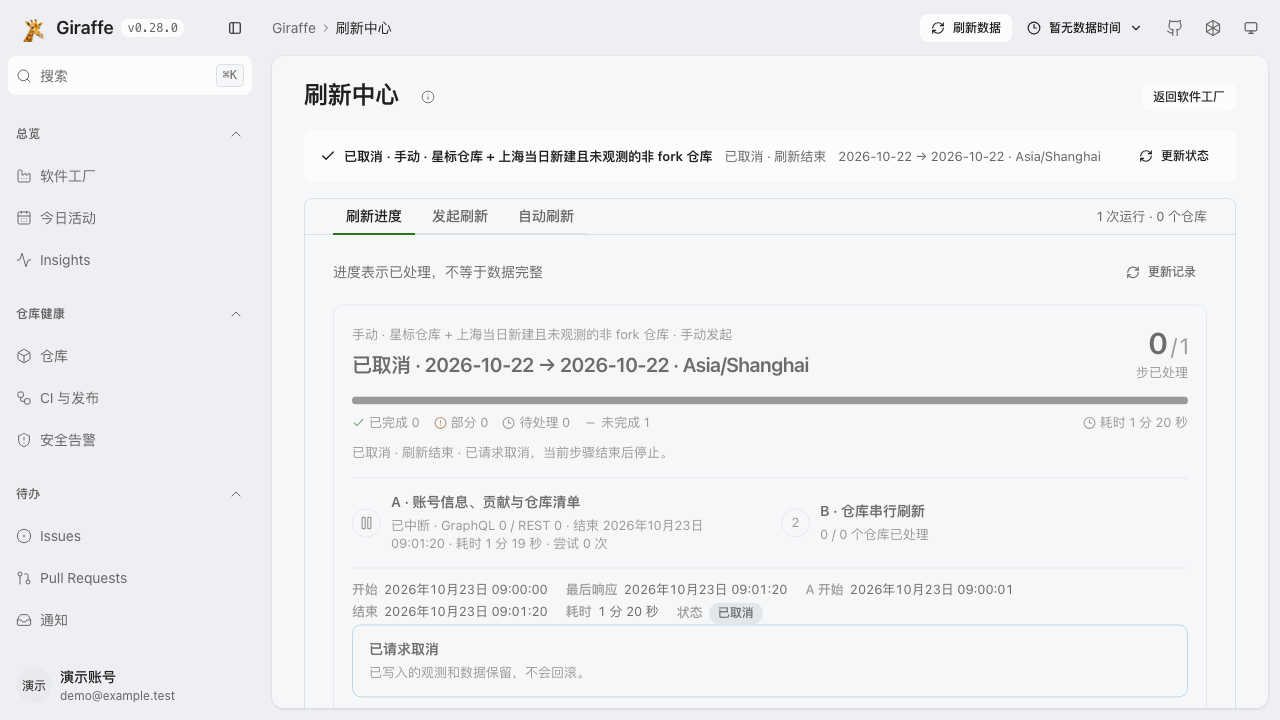
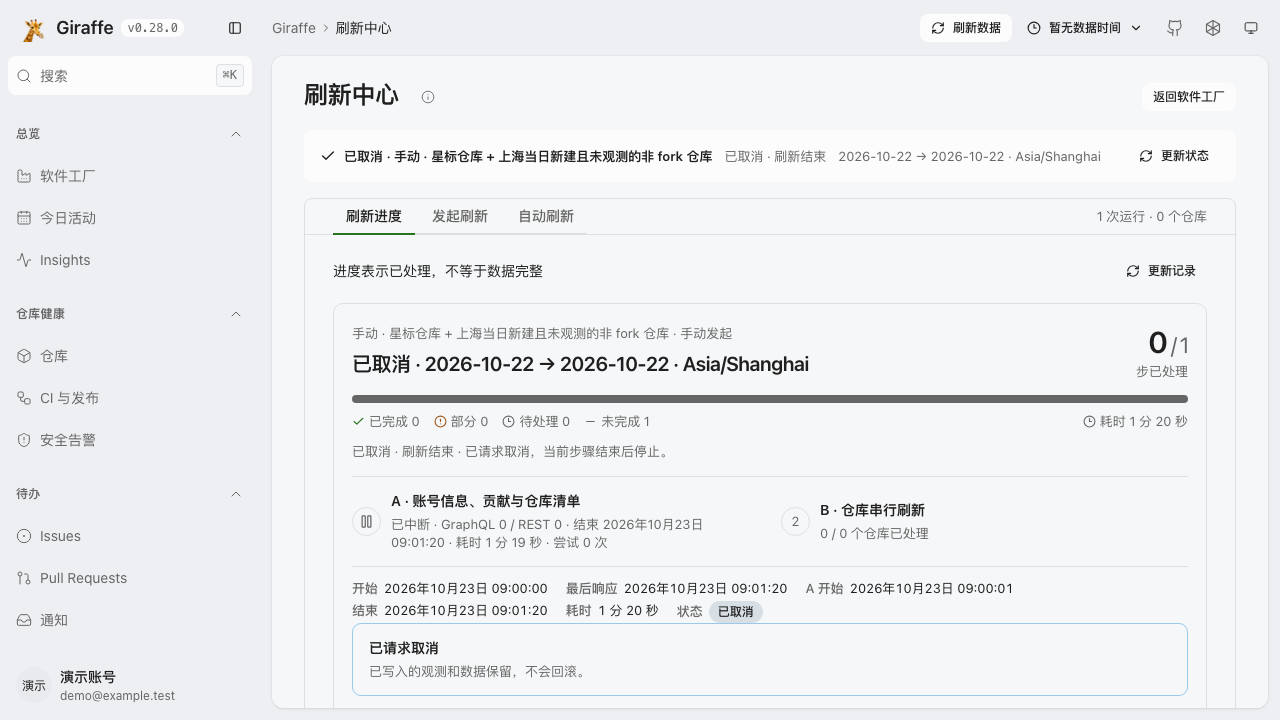
fix: clarify refresh details at narrow widths

diff --git a/tests/e2e/refresh-center.spec.ts b/tests/e2e/refresh-center.spec.ts
@@ -2,6 +2,9 @@ import { expect, test } from "@playwright/test";
 import { refreshReviewRun, uiRefreshReviewFixtures } from "./ui-refresh-review-fixtures";
 
 test("cancelled account closure does not imply completed collection", async ({ page }, info) => {
+	await page.setViewportSize({ width: 1280, height: 720 });
+	await page.emulateMedia({ colorScheme: "light", reducedMotion: "reduce" });
+	await page.clock.setFixedTime(new Date("2026-10-23T01:01:20.000Z"));
 	const fixtures = uiRefreshReviewFixtures();
 	const current = refreshReviewRun();
 	const cancelled = {
@@ -48,10 +51,21 @@ test("cancelled account closure does not imply completed collection", async ({ p
 		"value",
 		"0",
 	);
-	await page.screenshot({ path: info.outputPath("cancelled-account-closure.png"), fullPage: true });
+	await page.screenshot({
+		path: info.outputPath("cancelled-account-closure.png"),
+		fullPage: true,
+		animations: "disabled",
+	});
+	await page.locator("details.refresh-diagnostics > summary").click();
+	await expect(page.locator("details.refresh-diagnostics")).toContainText(
+		"结束时间表示步骤结束，不代表成功完成采集",
+	);
 });
 
 test("settled refresh dimensions do not claim complete observations", async ({ page }, info) => {
+	await page.setViewportSize({ width: 1280, height: 720 });
+	await page.emulateMedia({ colorScheme: "light", reducedMotion: "reduce" });
+	await page.clock.setFixedTime(new Date("2026-10-23T01:01:20.000Z"));
 	const fixtures = uiRefreshReviewFixtures();
 	const current = refreshReviewRun();
 	const completed = {
@@ -81,7 +95,15 @@ test("settled refresh dimensions do not claim complete observations", async ({ p
 	await expect(alerts).toContainText("已处理");
 	await expect(alerts).not.toContainText("完整");
 	await expect(repo.locator('.refresh-mini-dims > [title="依赖告警 · 已处理"]')).toBeVisible();
-	await page.screenshot({ path: info.outputPath("settled-dimensions.png"), fullPage: true });
+	const identity = await repo.locator(".refresh-queue-repo").boundingBox();
+	const summary = await repo.locator("summary").boundingBox();
+	expect(identity?.width).toBeGreaterThanOrEqual(160);
+	expect(summary?.height).toBeLessThanOrEqual(120);
+	await page.screenshot({
+		path: info.outputPath("settled-dimensions.png"),
+		fullPage: true,
+		animations: "disabled",
+	});
 });
 
 test("refresh history retains runs with unrecorded diagnostics", async ({ page }) => {

diff --git a/apps/web/src/client/routes/refresh.css b/apps/web/src/client/routes/refresh.css
@@ -467,6 +467,9 @@
 	font-size: var(--text-sm);
 	line-height: 1.6;
 }
+.refresh-run-repositories {
+	container: refresh-repositories / inline-size;
+}
 .refresh-run-row > summary {
 	display: grid;
 	grid-template-columns: 16px minmax(0, 1fr) auto 96px;
@@ -721,6 +724,19 @@ details[open] > summary > .refresh-disclosure {
 .refresh-run-phases [data-complete="true"]:not([data-skipped="true"]) .refresh-phase-number {
 	color: var(--refresh-success);
 	border-color: var(--refresh-success);
+}
+@container refresh-repositories (max-width: 600px) {
+	.refresh-run-row > summary {
+		grid-template-columns: 16px minmax(0, 1fr) auto;
+	}
+	.refresh-mini-dims {
+		grid-column: 2 / -1;
+		grid-row: 2;
+	}
+	.refresh-queue-count {
+		grid-column: 3;
+		grid-row: 1;
+	}
 }
 @media (min-width: 1000px) {
 	.refresh-run-details:has(.refresh-run-issues):has(.refresh-run-repositories) {

diff --git a/apps/web/src/client/routes/refresh-run-details.test.tsx b/apps/web/src/client/routes/refresh-run-details.test.tsx
@@ -228,6 +228,8 @@ it("renders a cancellation-closed account step as interrupted without settled at
 	const text = container.textContent ?? "";
 	expect(text).toContain("0 / 1");
 	expect(text).not.toContain("完成 2026");
+	expect(text).toContain("结束时间表示步骤结束，不代表成功完成采集");
+	expect(text).not.toContain("未完成的步骤只显示已开始时间");
 });
 
 it("uses neutral end-time wording for a cancellation-closed interrupted repository", async () => {

diff --git a/apps/web/src/client/routes/refresh-run-details.tsx b/apps/web/src/client/routes/refresh-run-details.tsx
@@ -496,7 +496,7 @@ export function RefreshRunDetails({
 				</p>
 				<p>
 					{timings
-						? "逐步时间来自本次运行记录；未完成的步骤只显示已开始时间。"
+						? "逐步时间来自本次运行记录；结束时间表示步骤结束，不代表成功完成采集。"
 						: "这次运行没有保存逐步时间戳，只显示运行级开始、更新与结束时间。"}
 				</p>
 			</details>

diff --git a/docs/ui-0280/README.md b/docs/ui-0280/README.md
@@ -1,12 +1,17 @@
 # UI 0.28.0 visual evidence
 
 Baseline: `b3ddaa573828aa080620cef17e396403b432bc58` (v0.27.2).
-Candidate runtime: `04ef5695fd95a5a75bacfc7b9a31a11a7878694b` (v0.28.0).
+Candidate client tree: `05f5305dc7b34516f53f738a1abb1bc73890bef6` (v0.28.0).
 Integration base: `89ce50509b3d22303672e4ecc58a584f4cdff9a0` (v0.27.3).
+
+The client tree is the Git tree object at `HEAD:apps/web/src/client`, pinning the
+captured UI independently of this evidence document's containing commit.
 
 The original before captures remain pinned to v0.27.2. After captures include
 the post-rebase settlement corrections: cancellation closure is not successful
 collection, and processed dimensions do not imply available observations.
+Diagnostic help uses the same closure semantics. Narrow repository panels reflow
+dimension chips without squeezing repository identities into vertical text.
 Fresh integration gates exercise the v0.27.3 Worker with this UI.
 
 Chromium captures use the same fixed clock, saved API fixtures and localhost-only
@@ -36,6 +41,10 @@ Supplementary mobile-dark captures cover the lower sections:
 Post-rebase semantic regressions have dedicated browser captures:
 - [Cancelled account closure without settled collection](after-cancelled-account.png)
 - [Processed dimensions without claiming complete observations](after-settled-dimensions.png)
+
+These supplemental captures use 1280 × 720, light theme and the same fixed clock.
+The settled-dimension journey asserts at least 160px of repository identity width
+and at most 120px of summary height inside the desktop two-column layout.
 
 The browser journey checks that dimension labels and their repository rows do not
 overflow at both viewport widths and in both themes. Project-identity journeys

diff --git a/Retrospective.md b/Retrospective.md
@@ -2423,6 +2423,13 @@ daily projection into the viewmodel and reuse the same day-window evidence;
 keep missing keys null even when the overall stream is complete. Browser checks
 must inspect the small repository chart as well as the main chart panels.
 
+The post-rebase visual review also exposed a repository identity squeezed into
+seven lines at an intermediate desktop width. Viewport-only breakpoints missed
+the narrow panel inside a two-column layout. Reflow its chips by container width
+and assert usable identity width and row height, not only absence of overflow.
+Review diagnostic explanations alongside corrected status labels: a closed step
+timestamp does not establish successful collection, including in helper copy.
+
 Token recovery also needs response ordering: an older initial read can fail or
 return an empty list after a successful creation and reload. Invalidate that
 initial request when the newer list request starts, and test both late outcomes.
